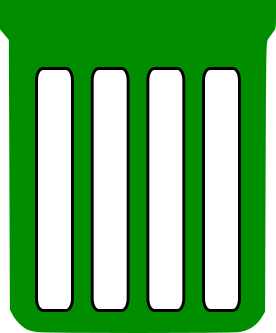
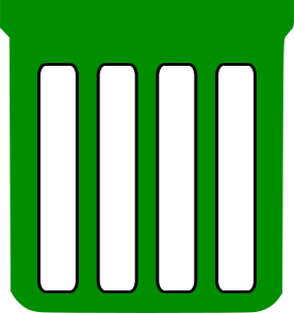
Add files via upload

diff --git a/sketch.js b/sketch.js
@@ -5,22 +5,28 @@ const Bodies = Matter.Bodies;
 const Body = Matter.Body;
 const Render = Matter.Render;
 
-var dustbinObj,groundObject, paperObject;
-var world;
+var dustbinObj,dustbinObj1,groundObject,paperObject;
+var engine,world;
+var dustBin,dustBinImg;
 
+function preload(){
+	dustBinImg = loadImage("dustbingreen.png");
+}
 
 function setup() {
-	createCanvas(1600, 700);
+	createCanvas(1600,700);
+
+	dustBin = createSprite(1200,545,200,213);
+	dustBin.addImage(dustBinImg);
+	dustBin.scale = 0.72;
 
 	engine = Engine.create();
 	world = engine.world;
 	
 	groundObject = new ground(width/2,670,width,20);
 	dustbinObj = new dustbin(1200,650);
-	paperObject = new Paper(250,667,40,40);
-  
+	paperObject = new Paper(250,665,40,40);
 }
-
 
 function draw() {
   background(230);
@@ -30,6 +36,8 @@ function draw() {
   groundObject.display();
   dustbinObj.display();
   paperObject.display();
+
+  drawSprites();
 }
 
 function keyPressed() {
@@ -37,5 +45,3 @@ function keyPressed() {
 		Matter.Body.applyForce(paperObject.body, paperObject.body.position,{x:150,y:-100});
    }
 }
-	
-

diff --git a/dustbin.js b/dustbin.js
@@ -11,8 +11,6 @@ class dustbin
 		this.image=loadImage("dustbingreen.png")
 		this.bottomBody=Bodies.rectangle(this.x, this.y, this.dustbinWidth, this.wallThickness, {isStatic:true})
 		this.leftWallBody=Bodies.rectangle(this.x-this.dustbinWidth/2, this.y-this.dustbinHeight/2, this.wallThickness, this.dustbinHeight, {isStatic:true})
-		
-		
 
 		this.rightWallBody=Bodies.rectangle(this.x+this.dustbinWidth/2, this.y-this.dustbinHeight/2, this.wallThickness, this.dustbinHeight, {isStatic:true})
 		
